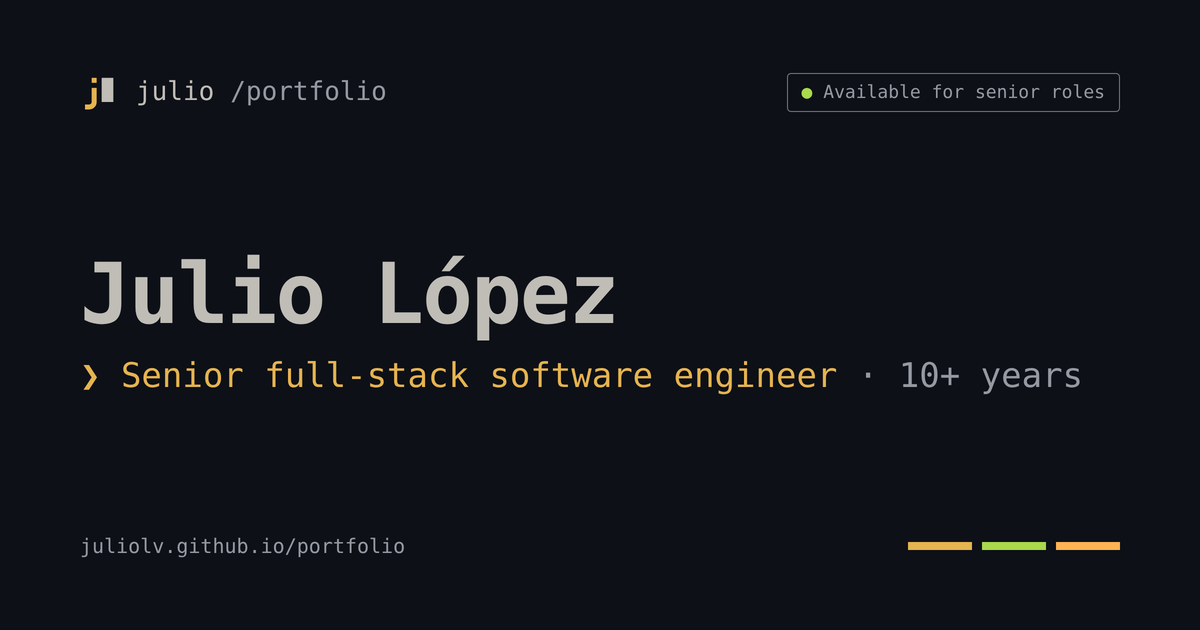
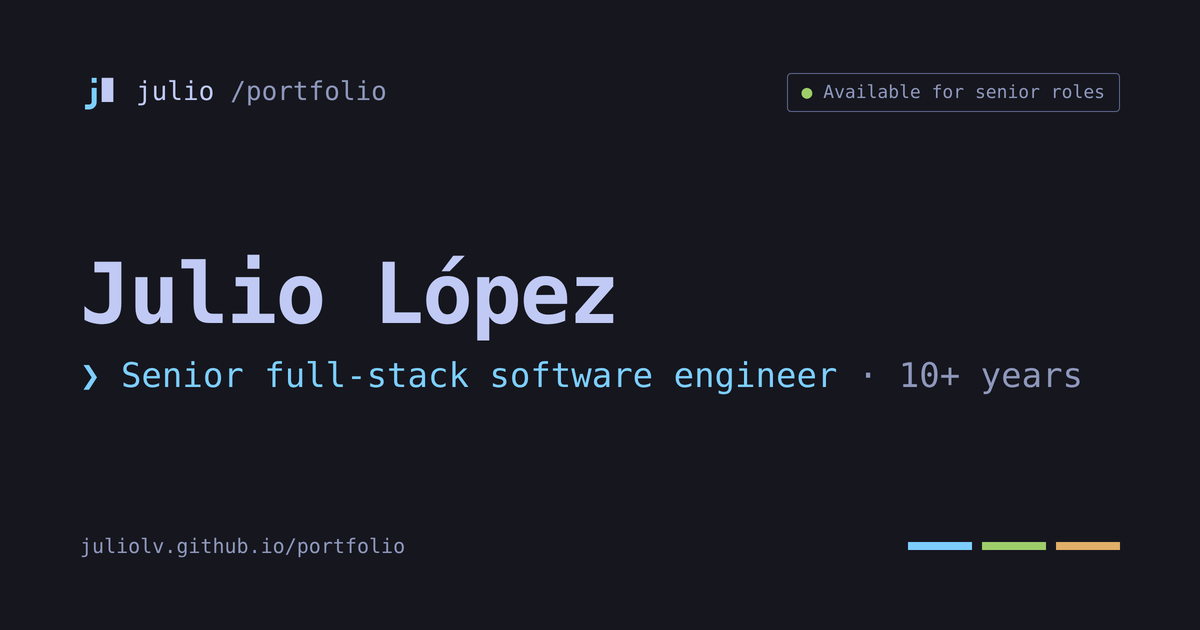
chore: §9 re-run after the theme rework, and the share images in Wave
The last acceptance run predated the six-theme model, so it was measuring a page
that no longer exists. Re-ran it end to end: 18 loads (nine widths × two
schemes), 0 console errors, 0px horizontal overflow, and the behaviour rows
re-measured rather than copied.

Rows that changed meaning:
- AA now covers twelve palettes, not nine.
- the picker row describes two variants per theme and the new arrow behaviour.
- three rows are new: the default theme flips with the OS and nothing flashes,
  an explicit variant survives a reload under the opposite OS, and a legacy id
  (`dracula`) lands on `wave` instead of an id with no tokens.
- the palette has 22 entries, not 25: three skins became six themes.
- Spanish coverage is 258 pairs with 36 identical — tech names, placeholder
  organisations, dates, theme names and `esc`. No prose.

Two rows I first measured wrong and had to redo: the phone dock looked stuck at
94px because I read it before the rAF handler ran, and my injected error collector
was registered twice and threw "ce has already been declared" — a harness bug that
would have been reported as a page error if I had not read the message.

`og.png`, `favicon-32.png` and `apple-touch-icon.png` are regenerated from the
routes: the card was still advertising the old palette. Also corrected three
stale lines in state.md (page count, "System + nine skins", "the default custom
theme") that no longer described the branch.

diff --git a/docs/state.md b/docs/state.md
@@ -1,7 +1,7 @@
 ---
 updated: 2026-11-14
 milestone: 3 — v2 TUI port, acceptance run
-next_action: re-run §9 with the palette in, then decide the merge
+next_action: §9 re-run is green — the merge is the one decision left
 owner: julio
 ---
 
@@ -24,7 +24,7 @@ closes. `pnpm state` prints it and fails if a required section is missing.
 | Host | GitHub Pages, project subpath `/portfolio` (NOT Vercel) |
 | Stack | Astro 7 static, hand-authored CSS, ~10 KB vanilla TS, no UI framework |
 | Languages | EN / ES rendered at build time, toggled with CSS |
-| Build | `pnpm build` → `dist/` (3 pages: `/`, `/design-system/`, `404.html`) |
+| Build | `pnpm build` → `dist/` (7 pages: `/`, `/v2/`, `/404`, the two forwards, `/og`, `/icon`) |
 | Verified | 2026-11-13: live 200s, zero failed resources, reduced-motion + palette keyboard paths pass |
 
 ## Milestone
@@ -44,8 +44,8 @@ After that: the devlog mirroring real GitHub issues.
    §4/§5 shell at `/v2`
    with all six transcript turns rendering from the collections and data files,
    bilingual, no horizontal scroll; §5.1 prompt with 16 slash commands and live
-   search over every section; §5.2 dialogs — theme picker (System + nine skins,
-   `tui.skin`, live OS follow), keyboard, commands; §5.3/§5.4 section tracking,
+   search over every section; §5.2 dialogs — theme picker (six themes × two
+   variants, `tui.skin` + `tui.mode`), keyboard, commands; §5.3/§5.4 section tracking,
    the sidebar reading meter and the EN/ES switch; §7 phones — touch chips, 44px
    targets, the compact dock, gutters; §6 motion — typed role line, reveal,
    prompt flash, theme cross-fade, reduced motion; §8 sidebar extras — agents
@@ -78,28 +78,36 @@ After that: the devlog mirroring real GitHub issues.
 | 2026-11-13 | No free models in the fleet | Owner ruled them out: predictable quality beats marginal savings |
 | 2026-11-13 | Per-role model tiers | `delegation.model` is global: one role per batch (build → audit → review). Builder `deepseek-v4.1-flash`, Auditor `qwen3.8-flash`, Reviewer **`glm-5.3-flash`** (mandated), Designer `gpt-6-luna` |
 
-## §9 acceptance run — 2026-11-13, branch `feat/tui-v2`
+## §9 acceptance run — 2026-11-14, branch `feat/tui-v2`
 
 Run in Chromium through CDP, not by eye. Evidence is the measurement next to each
-line, because "looks fine" is what this section exists to replace.
+line, because "looks fine" is what this section exists to replace. Re-run after the
+theme rework: six themes with two variants each, Wave, and the picker's state model.
 
 | Check | Result |
 |---|---|
 | Console errors, 360/375/393/412/430/1366/1440/1536/1920 × light/dark | pass — 0 errors in 18 loads |
-| No horizontal page scroll at those widths | pass — 0px overflow; only the tab strip and `sr-only` spans extend past the viewport, both by design |
-| AA across the themes | pass — `pnpm contrast` checks all six in both modes (12 palettes) |
-| Sticky prompts | pass — 49px under the bar at desktop, 89px on a phone |
-| Context meter | simulated — a section of reading costs a block of tokens, so the meter fills 21% → 98% of the 1M window instead of pinning at 0.2% |
-| Phone dock | pass — 94px → 45px scrolling down, back on scroll up, at either end, or on prompt focus |
-| Touch: chips, 44px targets, `menu` label | pass — chips 2×2, every tappable ≥44px |
-| Reduced motion | pass — full role text, no reveal, no cross-fade, caret static |
-| Theme picker by keyboard | pass — opens on the saved theme, any arrow steps one card and wraps, Enter saves, Esc reverts |
-| Prompt: autofocus, Tab completes without losing focus, `/work ` matches | pass |
-| Spanish, visible copy | pass — 245 strings identical EN/ES, of which 42 are technology names, theme names, URLs and code samples; no prose left in English |
-| Command palette (§5.2) | pass — Ctrl K or the button; 25 entries in four groups, arrows/Enter/hover, language-aware placeholder |
-| Single keys `t` `l` `j` `k` `?` + switch (`tui.keys`) | pass — ignored while typing, in a dialog, or with a modifier; hint changes when off; Ctrl K unaffected |
-| aria-labels, `data-tip` tooltips | pass — attributes carry both languages in data attributes and swap with the shell; 0 identical strings left between EN and ES |
-| `/design-system/`, `/skins/` | pass — both forward to the `#design-system` view; no second implementation |
+| No horizontal page scroll at those widths | pass — 0px at every width |
+| AA across the themes | pass — `pnpm contrast`, 12 palettes (six themes × dark/light) |
+| Sticky prompts | pass — the section prompt pins at 49px, exactly `--bar-h` |
+| Context meter | simulated — 21% → 98% of the 1M window; `aria-valuenow` agrees with the label |
+| Phone dock | pass — 94px → 45px scrolling down, back to 94 on scroll up |
+| Touch: chips, 44px targets, `menu` label | pass — 4 chips in 2 rows, no tappable under 44px |
+| Reduced motion | pass — full role text, caret `animation-name: none`, `--dur-fast: 0ms` |
+| Theme picker by keyboard | pass — opens on the saved card, any arrow steps one and wraps, Enter saves, Esc reverts |
+| Default theme and the OS flip | pass — `wave` with no stored choice, #16161e → #eef0f6 when the scheme flips, no script |
+| Explicit variant beats the OS | pass — gruvbox/dark stays dark under a light OS |
+| Legacy ids migrate | pass — `dracula` → `wave`; no id without tokens |
+| Prompt: autofocus, Tab completes, `/wo` matches | pass — completes to `/work ` and keeps focus in the field |
+| Spanish, visible copy | pass — 258 EN/ES pairs, 36 identical: tech names, placeholder orgs, dates, theme names, `esc` |
+| Command palette (§5.2) | pass — Ctrl K, 22 entries in four groups, focus lands in the field |
+| Single keys `t` `l` `j` `k` `?` + switch | pass — `t` opens the picker, `l` switches to Spanish, ignored while typing or in a dialog |
+| aria-labels, `data-tip` tooltips | pass — 15 attribute strings per language, none shared between them |
+| `/design-system/`, `/skins/` | pass — both forward to the `#design-system` view |
+| Design-system view | pass — 3 tabs, 12 theme cards in 3 columns, 9 specimens, 0 overflow |
+| Sidebar rule | pass — reaches the viewport edge at 1300 and 900 tall, top and bottom of the page |
+| 404 | pass — Wave, 404 heading, four ways back |
+| Share images | regenerated from `/og` and `/icon` in Wave; 76 KB, 1 KB, <1 KB |
 
 ## Merge checklist
 
@@ -137,7 +145,7 @@ ring, which is also accent-coloured. There is no "current" label and no hover
 preview: colours change only when a card takes focus, and they revert on Esc.
 
 **What `prefers-color-scheme` decides.** Exactly one thing: when `tui.mode` is
-absent, the OS picks the variant — which means the default `custom` theme is dark
+absent, the OS picks the variant — which means the default `wave` theme is dark
 or light according to the device, with no script and nothing to flash. The moment
 a variant is chosen, `data-mode` is set and the media query has no say. Absence of
 `data-mode` is the "follow the system" state; there is no third attribute value.
